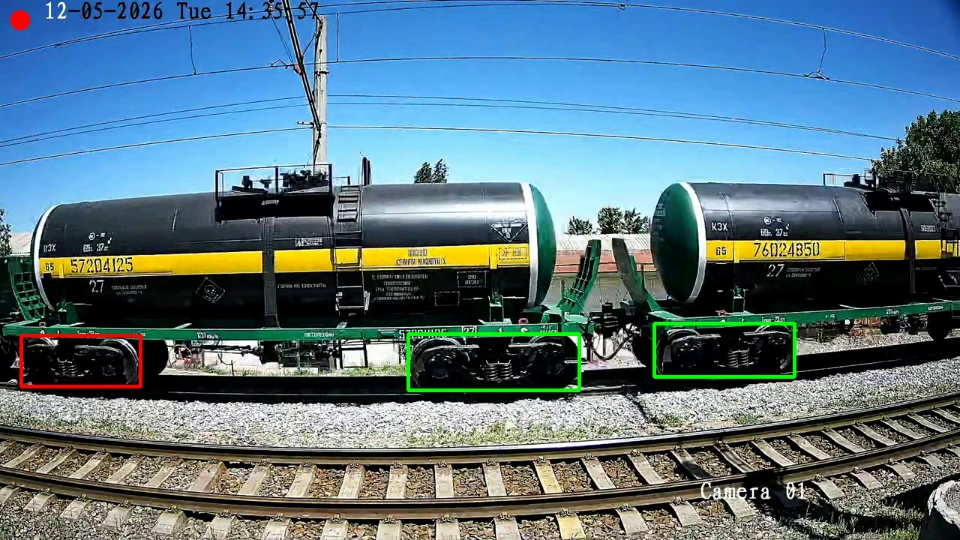
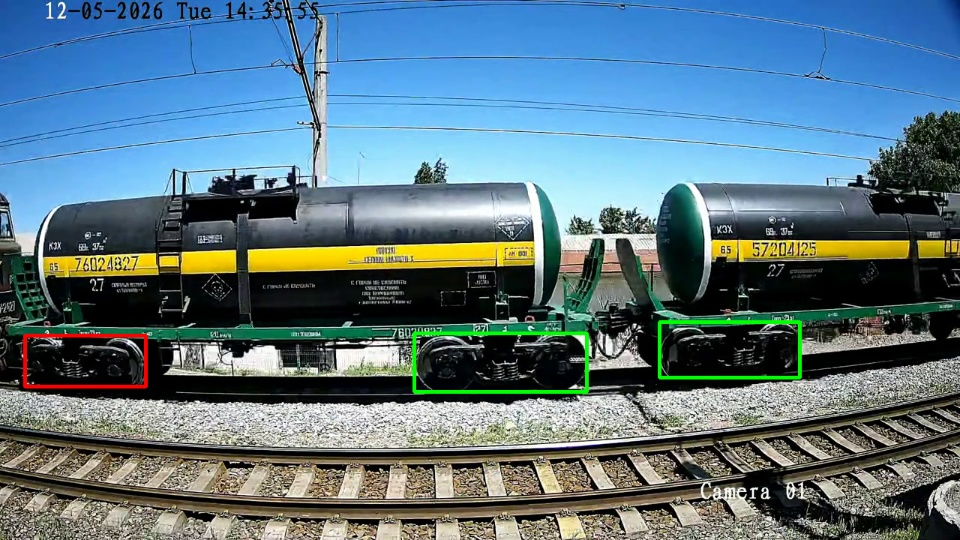
bag fix

diff --git a/ui/app_upload.py b/ui/app_upload.py
@@ -14,7 +14,7 @@ from core.config import (
 )
 from core.database import current_time, BufferDB
 from threads.upload import UploadThread
-from ui.dialogs import ProgressBar, RepeatWagonDialog
+from ui.dialogs import ProgressBar, RepeatWagonDialog, WagonChoiceDialog
 from PyQt6.QtWidgets import QDialog
 from utils.helpers import show_message
 from utils.image import qpixmap_to_ndarray
@@ -65,7 +65,14 @@ class UploadMixin:
     def upload_handle_data_left(self):
         if max(self.last_scale_weight) > min_send_kg:
             if self.video_thread_left and self.video_thread_left.running:
-                wn = self._wagon_num_left()
+                frozen_data = dict(self.last_data_left)
+                candidates = frozen_data.get("candidates")
+                if candidates and len(candidates) >= 2:
+                    dlg = WagonChoiceDialog(style_name=self.style_name, candidates=candidates)
+                    if dlg.exec() != QDialog.DialogCode.Accepted or not dlg.selected:
+                        return
+                    frozen_data = dict(dlg.selected)
+                wn = frozen_data.get(wagonNumber, identifier * num_count)
                 if wn in self.wagon_ids and identifier not in wn:
                     rec = BufferDB().get_today_wagon(wn)
                     dlg = RepeatWagonDialog(
@@ -76,10 +83,8 @@ class UploadMixin:
                     )
                     if dlg.exec() != QDialog.DialogCode.Accepted:
                         return
+                self.last_data_left = frozen_data
                 self.wagon_ids.append(wn)
-                self.progressbar = ProgressBar()
-                self.progressbar.change_style(style_name=self.style_name)
-                self.progressbar.show()
                 self.upload_left = True
                 self.send()
             else:
@@ -91,7 +96,14 @@ class UploadMixin:
     def upload_handle_data_right(self):
         if max(self.last_scale_weight) > min_send_kg:
             if self.video_thread_right and self.video_thread_right.running:
-                wn = self._wagon_num_right()
+                frozen_data = dict(self.last_data_right)
+                candidates = frozen_data.get("candidates")
+                if candidates and len(candidates) >= 2:
+                    dlg = WagonChoiceDialog(style_name=self.style_name, candidates=candidates)
+                    if dlg.exec() != QDialog.DialogCode.Accepted or not dlg.selected:
+                        return
+                    frozen_data = dict(dlg.selected)
+                wn = frozen_data.get(wagonNumber, identifier * num_count)
                 if wn in self.wagon_ids and identifier not in wn:
                     rec = BufferDB().get_today_wagon(wn)
                     dlg = RepeatWagonDialog(
@@ -102,10 +114,8 @@ class UploadMixin:
                     )
                     if dlg.exec() != QDialog.DialogCode.Accepted:
                         return
+                self.last_data_right = frozen_data
                 self.wagon_ids.append(wn)
-                self.progressbar = ProgressBar()
-                self.progressbar.change_style(style_name=self.style_name)
-                self.progressbar.show()
                 self.upload_right = True
                 self.send()
             else:
@@ -160,6 +170,9 @@ class UploadMixin:
             self.sending_data.stationCode = self.config.get(STATION_CODE, default_station_code)
             self.sending_data.scaleCode = self.config.get(SCALE_CODE, default_scale_code)
             self.sending_data.createdDate = current_time()
+            self.progressbar = ProgressBar()
+            self.progressbar.change_style(style_name=self.style_name)
+            self.progressbar.show()
             self.upload_thread = self._build_upload_thread(img, img2, img_num)
             self.upload_thread.message_signal.connect(self.get_upload_response)
             self.upload_thread.progress_signal.connect(self.fake_progressbar)

diff --git a/ui/app_data.py b/ui/app_data.py
@@ -49,13 +49,19 @@ class DataMixin:
     def get_handle_data_left(self, data: dict):
         if max(self.last_scale_weight) < min_send_kg:
             return
-        wn = data.get(wagonNumber)
-        if wn and wn.count(identifier) == 1:
-            wn = fix_luhn_code(wn)
-        self.last_data_left[wagonNumber] = wn
+        wagon_num = data.get(wagonNumber)
+        if wagon_num is None or wagon_num == identifier * num_count:
+            self.last_data_left = {}
+            self.left_widget.frame_lbl.number_lbl.clear()
+            self.left_widget.frame_lbl.number_image_lbl.clear()
+            return
+        self.last_data_left["candidates"] = data.get("candidates")
+        self.last_data_left[wagonNumber] = wagon_num
+        if self.last_data_left[wagonNumber].count(identifier) == 1:
+            self.last_data_left[wagonNumber] = fix_luhn_code(code=str(self.last_data_left[wagonNumber]))
         self.last_data_left[wagonAttachId] = data.get(wagonAttachId)
         self.last_data_left[wagonNumberAttachId] = data.get(wagonNumberAttachId)
-        self.left_widget.frame_lbl.number_lbl.setText(str(wn))
+        self.left_widget.frame_lbl.number_lbl.setText(str(self.last_data_left[wagonNumber]))
         nid = self.last_data_left.get(wagonNumberAttachId)
         if isinstance(nid, np.ndarray):
             self.left_widget.frame_lbl.number_image_lbl.setPixmap(
@@ -64,13 +70,19 @@ class DataMixin:
     def get_handle_data_right(self, data: dict):
         if max(self.last_scale_weight) < min_send_kg:
             return
-        wn = data.get(wagonNumber)
-        if wn and wn.count(identifier) == 1:
-            wn = fix_luhn_code(wn)
-        self.last_data_right[wagonNumber] = wn
+        wagon_num = data.get(wagonNumber)
+        if wagon_num is None or wagon_num == identifier * num_count:
+            self.last_data_right = {}
+            self.right_widget.frame_lbl.number_lbl.clear()
+            self.right_widget.frame_lbl.number_image_lbl.clear()
+            return
+        self.last_data_right["candidates"] = data.get("candidates")
+        self.last_data_right[wagonNumber] = wagon_num
+        if self.last_data_right[wagonNumber].count(identifier) == 1:
+            self.last_data_right[wagonNumber] = fix_luhn_code(code=str(self.last_data_right[wagonNumber]))
         self.last_data_right[wagonAttachId2] = data.get(wagonAttachId)
         self.last_data_right[wagonNumberAttachId] = data.get(wagonNumberAttachId)
-        self.right_widget.frame_lbl.number_lbl.setText(str(wn))
+        self.right_widget.frame_lbl.number_lbl.setText(str(self.last_data_right[wagonNumber]))
         nid = self.last_data_right.get(wagonNumberAttachId)
         if isinstance(nid, np.ndarray):
             self.right_widget.frame_lbl.number_image_lbl.setPixmap(

diff --git a/ui/app_cam_settings.py b/ui/app_cam_settings.py
@@ -98,7 +98,7 @@ class CamSettingsMixin:
 
     def _save_response_left(self, ans: bool):
         if ans:
-            self.settings_widget.left_cam_widget.lbl.setText("Chap Kamera \u2705")
+            self.settings_widget.left_cam_widget.lbl.setText("Chap Kamera <font color='#22c55e'>\u2713</font>")
             self.cam_url_1 = self.settings_widget.left_cam_widget.edit.text().strip()
             cipher.write("settings/cam_1.bin", [self.cam_url_1])
             self.left_widget.switch.setDisabled(False)
@@ -106,7 +106,7 @@ class CamSettingsMixin:
                 self.left_widget.switch.setChecked(True)
                 self.left_widget.switch.start_transition(2)
         else:
-            self.settings_widget.left_cam_widget.lbl.setText("Chap Kamera \u274c")
+            self.settings_widget.left_cam_widget.lbl.setText("Chap Kamera <font color='#ef4444'>\u2717</font>")
             show_message(stl=self.style_name, message="Chap kamera bilan aloqa mavjud emas.")
             self.left_widget.switch.setDisabled(True)
         self.settings_widget.left_cam_widget.edit.setDisabled(False)
@@ -114,7 +114,7 @@ class CamSettingsMixin:
 
     def _save_response_right(self, ans: bool):
         if ans:
-            self.settings_widget.right_cam_widget.lbl.setText("O'ng Kamera \u2705")
+            self.settings_widget.right_cam_widget.lbl.setText("O'ng Kamera <font color='#22c55e'>\u2713</font>")
             self.cam_url_2 = self.settings_widget.right_cam_widget.edit.text().strip()
             cipher.write("settings/cam_2.bin", [self.cam_url_2])
             self.right_widget.switch.setDisabled(False)
@@ -122,7 +122,7 @@ class CamSettingsMixin:
                 self.right_widget.switch.setChecked(True)
                 self.right_widget.switch.start_transition(2)
         else:
-            self.settings_widget.right_cam_widget.lbl.setText("O'ng Kamera \u274c")
+            self.settings_widget.right_cam_widget.lbl.setText("O'ng Kamera <font color='#ef4444'>\u2717</font>")
             show_message(stl=self.style_name, message="O'ng kamera bilan aloqa mavjud emas.")
             self.right_widget.switch.setDisabled(True)
         self.settings_widget.right_cam_widget.edit.setDisabled(False)

diff --git a/ui/app_settings.py b/ui/app_settings.py
@@ -93,11 +93,11 @@ class PasswordSettingsMixin:
         sd.login_widget.edit.setDisabled(False)
         sd.password_widget.edit.setDisabled(False)
         if self.last_login_status:
-            sd.login_widget.lbl.setText("Login \u2705")
-            sd.password_widget.lbl.setText("Parol \u2705")
+            sd.login_widget.lbl.setText("Login <font color='#22c55e'>\u2713</font>")
+            sd.password_widget.lbl.setText("Parol <font color='#22c55e'>\u2713</font>")
         else:
-            sd.login_widget.lbl.setText("Login \u274c")
-            sd.password_widget.lbl.setText("Parol \u274c")
+            sd.login_widget.lbl.setText("Login <font color='#ef4444'>\u2717</font>")
+            sd.password_widget.lbl.setText("Parol <font color='#ef4444'>\u2717</font>")
         sd.save_btn.clicked.connect(
             lambda: self.save_special_settings(data={
                 BTN_DISABLE: sd.btn_disable.hidden_switch.isChecked(),

diff --git a/ui/main_window.py b/ui/main_window.py
@@ -100,7 +100,12 @@ class App(QMainWindow):
 
         self.setWindowIcon(window_icon)
         self.setWindowTitle(window_title)
-        self.setGeometry((SCREEN_WIDTH - WIDTH) // 2, (SCREEN_HEIGHT - HEIGHT) // 2, WIDTH, HEIGHT)
+        _avail = QApplication.primaryScreen().availableGeometry()
+        _w = int(_avail.width() * 0.85)
+        _h = int(_avail.height() * 0.88)
+        _x = _avail.x() + (_avail.width() - _w) // 2
+        _y = _avail.y() + (_avail.height() - _h) // 2
+        self.setGeometry(_x, _y, _w, _h)
 
         self.progressbar: ProgressBar = ProgressBar()
         self.progress_thread: ProgressThread = ProgressThread()
